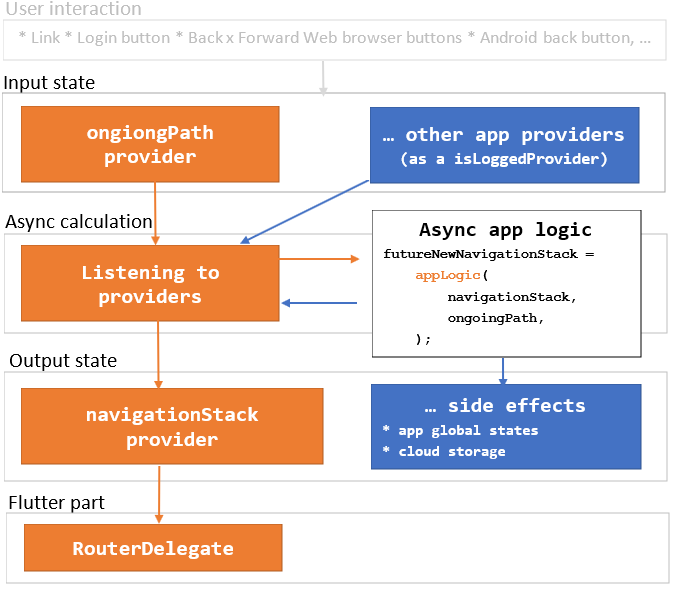
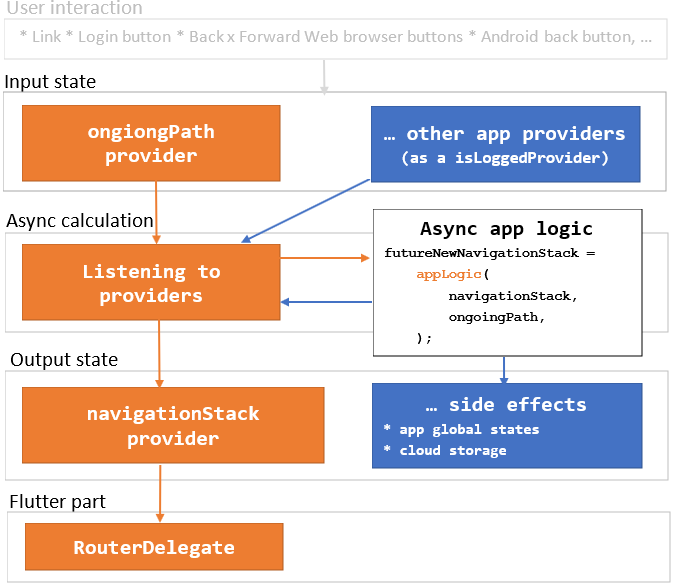
fix

diff --git a/CHANGELOG.md b/CHANGELOG.md
@@ -1,3 +1,7 @@
+## 0.21.0
+
+- diagram picture fix
+
 ## 0.20.0
 
 - small fix
